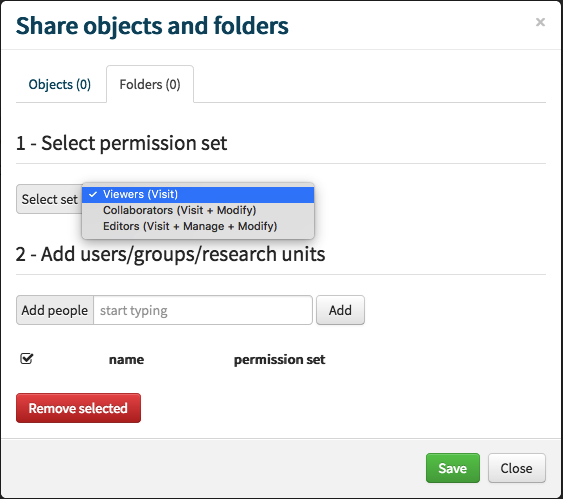
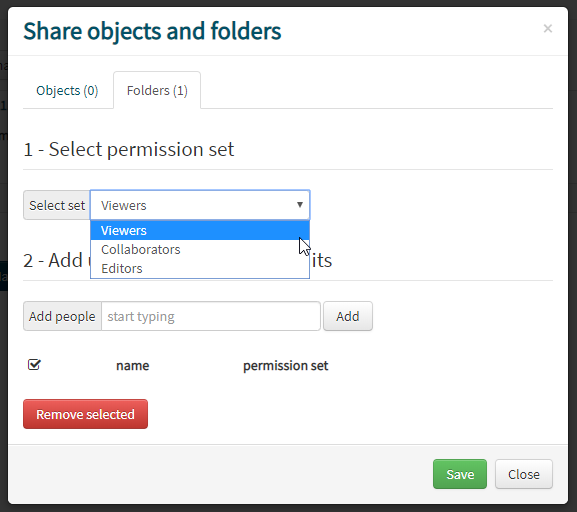
Update permission description of objects and folders sections

Changed region(s): [[0.0, 0.0, 0.9964, 1.0], [0.4227, 0.6914, 0.5737, 0.7515]]

diff --git a/pages/02.web/05.Folders/docs.md b/pages/02.web/05.Folders/docs.md
@@ -4,7 +4,6 @@ taxonomy:
     category: docs
 ---
 
-
 ## Structure
 
 MyData: 
@@ -24,66 +23,62 @@ MyData:
 
 ### Group Folders
 
-The system generates for each research unit a group folder where all members have access. The users group folder are listed here. 
+Each research unit has its own group folder accessible by all members.
 
 ### Project Folders
 
-This is the place to create/organize your data into project. 
+This is the place to create/organize your data into projects. 
 
 ### Shared Folders
 
-The folders shared with you by other users are listed here
-
+All folders shared with you by other users are listed here.
 
 ## Folder creation
 
-1. Click on the folder where you want to create the new folder 
-2. Use the *Action > New Folder* menu entry to create a new folder
+1. Navigate to the folder wherein you want to create a new folder.
+2. Use the *Action > New Folder* menu entry to create a new folder.
 
 !! Folder name restrictions: no special characters and no spaces allowed except `_`, max. length 32 chars
-
 
 ## Folder deletion
 
 ! It is only possible to delete an empty folder at the moment.
 
-1. Navigate to the folder you want to remove
+1. Navigate to the folder you want to remove.
 2. Use the *Action > Delete Folder* menu entry to delete a folder. 
-2. A popup will require you to confirm the removal of the folder.
-3. Finish the removal using the *confirm* button.
+2. A popup will require you to confirm the deletion of the folder.
+3. Confirm the deletion.
 
 ![folder deletion confirmation](https://github.com/SICASFoundation/smir-documenation/raw/master/assets/smir-delete-folder-confirmation.png)
-
 
 ## Folder sharing & permissions
 
 ### Permissions
-- Visit: allow people to view the folder and its content
-- Modify: allow users to add/remove content from the folder and rename it. But cannot delete a folder
-- Manage: allows to delete folders and manage sharing permission.
 
-### Permission set
-- Viewers: To share organized objects in a folder
-- Collaborators: Set up a folder for collaboration
-- Editors: to grant full access to folder options
+Similar to the object permissions described in the previous chapter, the access to a folder can be defined with fine-grained permissions.
 
+- **Visit** (V) allows the associated user/group to see the folder and its content.
+- **Modify** (Mo) allows the associated user/group to modify the folder (e.g. add/remove content from the folder and rename it).
+- **Manage** (Ma) allows the associated user/group to manage the folder (e.g. change permissions).
 
-### Single folder
-1. Navigate to the folder you want to share
-2. Use the *object menu > share* menu entry to define sharing permission for selected folder. Make sure you select the *folder* tab
-3. Select the permission set
-3. Search the user/group and press *add* (repeat to add multiple users)
-3. *Save*
+### Permission sets 
+
+A permission set is a combination of multiple folder permissions.
+
+- **Viewers** allows the associated user/group to see the folder and its content.
+- **Collaborators** allows the associated user/group to modify the folder including the permissions of **Viewers**.
+- **Editors** allows the associated user/group to manage the folder including the permissions of **Collaborators**. 
+
+![Permission sets](https://github.com/SICASFoundation/smir-documenation/raw/master/assets/smir-folder-permission-sets.png)
+
+### Sharing a folder
+1. Navigate to the folder you want to share.
+2. Use the *Folder menu > Share* menu entry. 
+3. Make sure you select the *Folders* tab.
+4. Select the permission set.
+5. Search for the user/group and press *Add* (repeat to add multiple users).
+6. *Save*
 
 ![folder sharing](https://github.com/SICASFoundation/smir-documenation/raw/master/assets/smir-folder-sharing.png)
 
-### Multiple folders
-1. Navigate to the parent folder of the folder you want to share
-2. Use the *Manage selected > share* menu entry to define sharing permission for selected folders. Make sure you select the *folder* tab
-3. Select the permission set
-3. Search the user/group and press *add* (repeat to add multiple users)
-3. *Save*
-
-![folder sharing](https://github.com/SICASFoundation/smir-documenation/raw/master/assets/smir-folder-sharing.png)
-
-! Object permissions are not affected by folder sharing! You only define how other users can access the folder and view the contents. Example: An object is set to private and is added to a shared folder. Only the owner will see the object in this folders, other users do not.
+! Object permissions are not affected by folder sharing! You only define how other users can access the folder and view the contents. Example: An object is set to private and is added to a shared folder. In this case only the owner will see the object in this folder, other users do not.

diff --git a/pages/02.web/04.Objects/docs.md b/pages/02.web/04.Objects/docs.md
@@ -4,7 +4,6 @@ taxonomy:
     category: docs
 ---
 
-
 Data sets are represented as **Objects** on SMIR. Each object has a unique ID, a set of meta data and object permission. The object's ID is static. This allows you to link permanently to an object. Additionaly, SMIR offers to create a [Digital object identifier](https://www.doi.org/) (DOI). Please read the [DOI section](#doi) for details and instructions.
 
 **Link template**
@@ -23,8 +22,6 @@ There are different *object types* to represent the type of the data set. Exampl
 - Genetic data
 
 For a complete list check the [Supported Data Section](https://docs.smir.ch/basics/supported%20data.html).
-
-
 
 ## Object names
 
@@ -48,11 +45,9 @@ SMIR uses a template to replace filenames after upload. This helps to identify w
 -  ID: 167141
 -  Extension: STereoLithography (stl)
 
-## Meta Data
+## Meta data
 
 ### General meta data
-
-
 
 ###  Type specific meta data
 
@@ -82,12 +77,34 @@ After you confirm the request:
 3. The Registration Agency collects the data and registers the DOI with DataCite 
 4. The DOI is active
 
+##  Permissions
 
-##  Object permissions
+The access to each object is defined based on fine-grained permissions.
+
+- **Visit** (V) allows the associated user/group to see the object (e.g. in a folder).
+- **Read** (R) allows the associated user/group to read the metadata of the object.
+- **Download** (D) allows the associated user/group to download the object.
+- **Edit** (E) allows the associated user/group to edit the object.
+- **Manage** (M) allows the associated user/group to manage the object (same permissions as the owner).
 
 ### Permission sets
 
-### Default permission
+A permission set is a combination of multiple object permissions.
+
+- **Protect** allows the associated user/group to see the object and read the metadata.
+- **Default** allows the associated user/group to download the object including the permissions of **Protect**.
+- **Collaborate** allows the associated user/group to edit the object including the permissions of **Default**. 
+- **Private** means the associated user/group is explicitely not allowed to see the object at all.
+
+![Permission sets](https://github.com/SICASFoundation/smir-documenation/raw/master/assets/smir-object-permission-sets.png)
+
+### Default permissions
+
+During the publishing procedure, the following default permissions are applied to each object. At any point it is possible to change or remove the permissions entirely as an owner of the object.
+
+![Default permissions](https://github.com/SICASFoundation/smir-documenation/raw/master/assets/smir-default-object-permissions.png)
+
+Based on the default permissions all visitors (registred or not) know about the existence of the object which means they are allowed to read the metadata. However, only registered users are allowed to download the object.
 
 ## Owner change
 
@@ -134,7 +151,6 @@ The user can change the license in a object list view or on the object's detail 
 5. Select the license from the drop-down menu in the modal 
    ![License modal](https://github.com/SICASFoundation/smir-documenation/raw/master/assets/smir-license-modal.png) 
 6. **Set license** to change  or **cancel** to abort
-
 
 ### Batch license change
 
